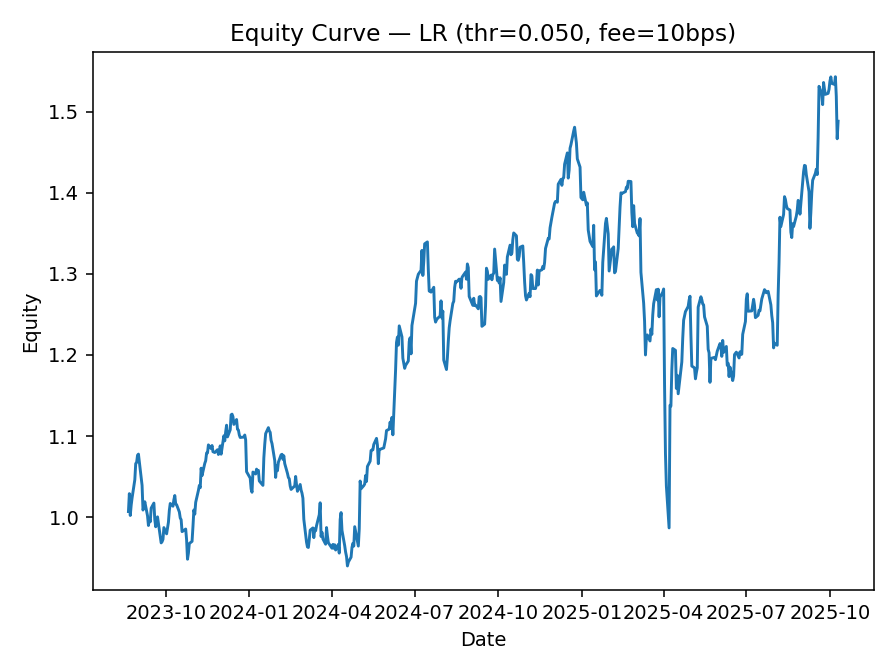
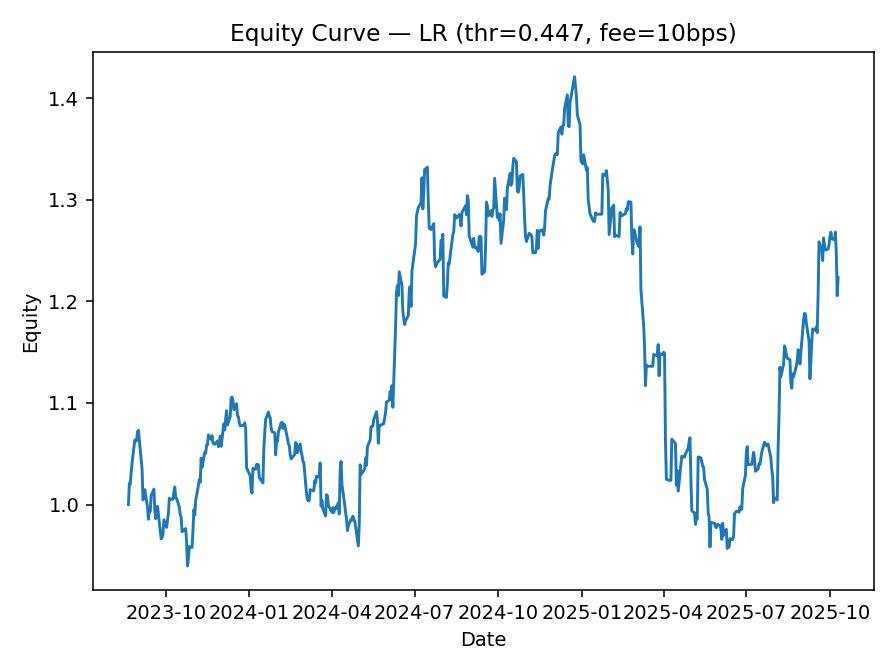
finalized notebook 5

diff --git a/notebooks/reports/model_card.md b/notebooks/reports/model_card.md
@@ -1,7 +1,7 @@
 # Model Card — Stock Direction (LogReg)
-**Date:** 2025-10-13  
+**Date:** 2025-10-14  
 **Ticker:** AAPL | **Period:** 2015-02-06 → 2025-10-10  
-**Labeling:** tau=0.500, dead_zone=False  
+**Labeling:** tau=0.5, dead_zone=False  
 **Features (16):** close, high, low, macd, macd_signal, mkt_ret1, mkt_ret5, open, ret1, ret10, ret5, rsi14 ...
 
 ## Metrics (Val/Test summary)
@@ -12,14 +12,19 @@
 | XGB | val | 0.5113 | 0.5285 | 0.2771 | 0.7582 | 0.5140 |
 | XGB | test | 0.4745 | 0.5228 | 0.2871 | 0.7758 | 0.5483 |
 
-**Val-chosen threshold:** 0.050
+**Chosen threshold (val-based):** 0.447
 
-## Stability (test by year)
+## Stability (Test by year)
 | year | AUC | Brier | PosRate |
 | --- | --- | --- | --- |
 | 2023 | 0.4877 | 0.2520 | 0.5761 |
 | 2024 | 0.5309 | 0.2482 | 0.5635 |
 | 2025 | 0.4106 | 0.2643 | 0.5155 |
+
+## Backtest (Test set, long-only @ threshold)
+| CAGR | Vol | Sharpe | MaxDD | HitRate | Trades | TurnoverYr |
+| --- | --- | --- | --- | --- | --- | --- |
+| 0.0990 | 0.2300 | 0.4307 | -0.3269 | 0.4796 | 101.0000 | 47.3086 |
 
 ## Artifacts
 - `artifacts/scaler.joblib`, `artifacts/lr.joblib`, `artifacts/threshold.json`, `artifacts/feature_list.json`
